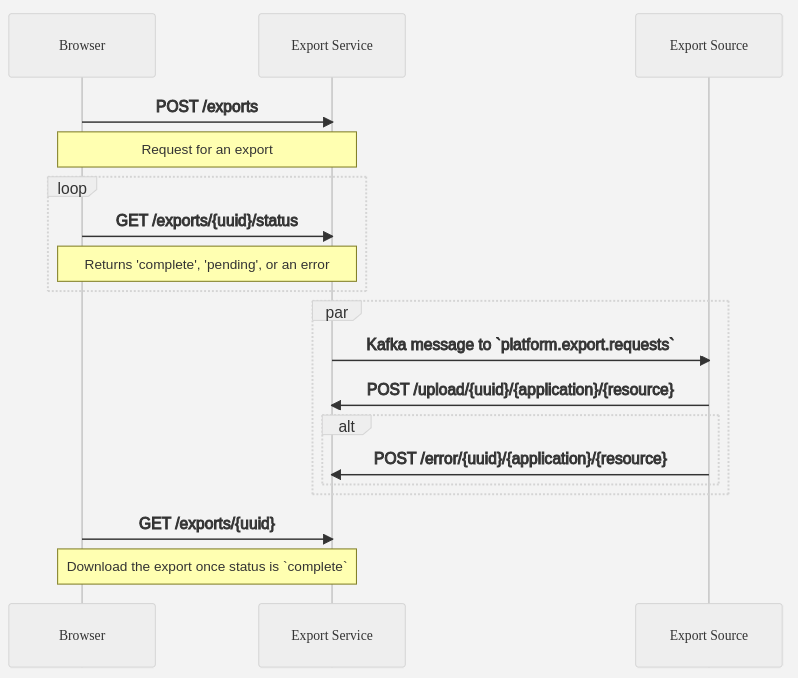
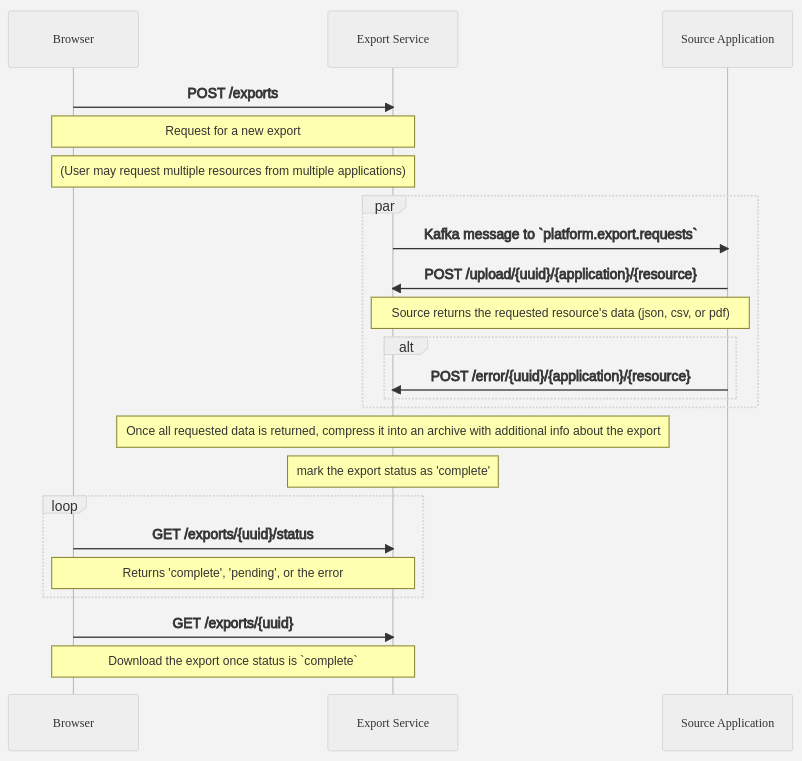
Update service diagram and integration documentation

diff --git a/README.md b/README.md
@@ -1,10 +1,15 @@
-# export-service-go
+# Export Service
+
+The export service lets users request an archive of their data from various services on the platform, allowing them to explore and use their data with their own tools. Because many console dot applications export data for similar purposes, this service provides the necessary functionality that is common to export as a feature.
+
+For more information on integrating with the export service, see the [integration documentation](docs/integration.md).
 
 ## Dependencies
 - Golang >= 1.16
 - podman-compose
 - make (optional for running the Makefile)
-## Starting the service
+
+## Starting the service locally
 You can start the database and minio using `podman-compose up db s3`. This will expose minio on `localhost:9099` 
 (use `minio` as the access key and `minioadmin` as the secret key)
 
@@ -33,16 +38,3 @@ Replace the `EXPORT_ID` and `EXPORT_RESOURCE` in the `Makefile` with the `id` an
 
 You can then run `make sample-request-internal-upload` to upload `example_export_upload.zip` to the service. If this is successful, you should be able to download the uploaded file from the service using `make sample-request-export-download`.
 
-## Integrating with the export service
-The basic process of using the export service is as follows:
-
-![Requesting an export](docs/request-export.png)
-
-In order for your service act as an **export source** for the **export service** as shown above, your service must consume events from the `platform.export.requests` topic. The **export service** will send a message to this topic when a new export request is created. This message will contain the following information:
-
-- `uuid`: identifier for the export request
-- `application`: identifier for the application a request is being made for
-- `resource`: identifier for the resource a request is being made for
-- `format`: the format the export should be in. `json` or `csv` (`pdf` is not supported yet)
-- `x-rh-identity`: the auth header of the user that requested the export. Can be used for logging, or for custom authorization/filtering by the app.
-- `filters`: application-specific, schemaless `json` object used for filtering the data to be exported. This is not required. (not supported yet)

diff --git a/docs/integration.md b/docs/integration.md
@@ -1,0 +1,25 @@
+# Integrating with the export service
+The basic process of using the export service is as follows:
+
+![Requesting an export](./request-export.png)
+
+## For data sources
+
+In order for your service act as an **source application** for the **export service** as shown above, your service must consume events from the `platform.export.requests` topic. The **export service** will send a message to this topic when a new export request is created. This message will contain the following information:
+
+- `uuid`: identifier for the export request
+- `application`: identifier for the application a request is being made for
+- `resource`: identifier for the resource a request is being made for
+- `format`: the format the export should be in. `json` or `csv` (`pdf` is not supported yet)
+- `x-rh-identity`: the auth header of the user that requested the export. Can be used for logging, or for custom authorization/filtering by the app.
+- `filters`: application-specific, schemaless `json` object used for filtering the data to be exported. This is not required. (not supported yet)
+
+The **source application** must POST the export data to the `platform.export.results` topic in the requested format. The **source application** is responsible for the consumption from the kafka topic, interaction with the application datastores, formatting the data, and posting the data to the export service API. (auth via pre-shared key)
+
+## For the browser front-end
+
+For allowing users to request and download these exports, the following steps are required in the **browser**:
+
+- The user must be logged in, so that the appropriate `x-rh-identity` header is present in their request.
+- The user-interface should allow the users to create new export requests, poll to see if the export is ready, and finally download the export when it is ready. The user-interface should also allow the user to delete completed exports via the `DELETE /exports/{uuid}` endpoint.
+
